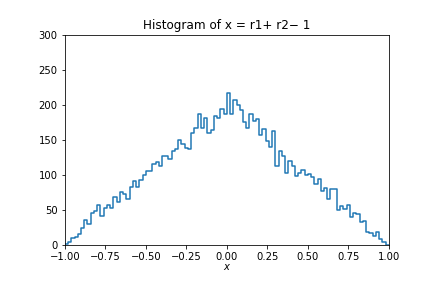
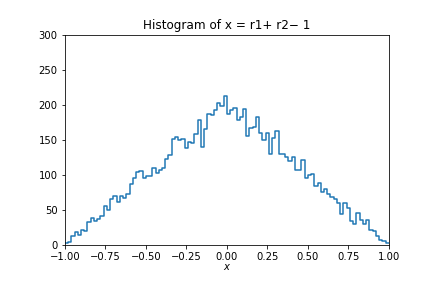
second submiting

Changed region(s): [[0.3009, 0.3125, 0.9028, 0.8438], [0.1806, 0.6562, 0.3009, 0.8125], [0.1505, 0.8125, 0.1806, 0.8438]]

diff --git a/Ex1(a).py b/Ex1(a).py
@@ -15,15 +15,16 @@ xMax = 1.
 r = []
 for i in range(12):
     r.append(np.random.uniform(xMin, xMax, numVal))
+
 xData_1 = r[0] + r[1] - 1
 xData_2 = r[0] + r[1]+ r[2] + r[3] - 2
 xData_3 = -6
 for i in range(12):
     xData_3 = xData_3 + r[i]
 
-xHist1, bin_edges1 = np.histogram(xData_1, bins=nBins, range=(xMin, xMax))
-xHist2, bin_edges2 = np.histogram(xData_2, bins=nBins, range=(xMin, xMax))
-xHist3, bin_edges3 = np.histogram(xData_3, bins=nBins, range=(xMin, xMax))
+xHist1, bin_edges1 = np.histogram(xData_1, bins=nBins, range=(xMin-1, xMax))
+xHist2, bin_edges2 = np.histogram(xData_2, bins=nBins, range=(xMin-2, xMax+1))
+xHist3, bin_edges3 = np.histogram(xData_3, bins=nBins, range=(xMin-6, xMax+5))
 # make plot and save in file
 
 # for xData_1 the plot as follow
@@ -34,10 +35,11 @@ fig1, ax1= plt.subplots(1,1)
 plt.gcf().subplots_adjust(bottom=0.15)
 plt.gcf().subplots_adjust(left=0.15)
 plt.title('Histogram of x = r1+ r2− 1')
-ax1.set_xlim((xMin, xMax))
-ax1.set_ylim((0., 150))
+ax1.set_xlim((xMin-1, xMax))
+ax1.set_ylim((0., 300))
 plt.xlabel(r'$x$', labelpad=0)
 plt.plot(xPlot1, yPlot1)
+fig1 = plt.gcf()
 plt.show()
 fig1.savefig("uniformHist1.png")
 
@@ -49,10 +51,11 @@ fig2, ax2= plt.subplots(1,1)
 plt.gcf().subplots_adjust(bottom=0.15)
 plt.gcf().subplots_adjust(left=0.15)
 plt.title('Histogram of x =  r1+ r2+ r3+ r4− 2')
-ax2.set_xlim((xMin, xMax))
-ax2.set_ylim((0., 150))
+ax2.set_xlim((xMin-2, xMax+1))
+ax2.set_ylim((0., 350))
 plt.xlabel(r'$x$', labelpad=0)
 plt.plot(xPlot2, yPlot2)
+fig2 = plt.gcf()
 plt.show()
 fig2.savefig("uniformHist2.png")
 
@@ -64,9 +67,10 @@ fig3, ax3= plt.subplots(1,1)
 plt.gcf().subplots_adjust(bottom=0.15)
 plt.gcf().subplots_adjust(left=0.15)
 plt.title('Histogram of x =  r1+ r2+ r3+ ...+ r12 −6')
-ax3.set_xlim((xMin, xMax))
-ax3.set_ylim((0., 150))
+ax3.set_xlim((xMin-6, xMax+5))
+ax3.set_ylim((0., 550))
 plt.xlabel(r'$x$', labelpad=0)
 plt.plot(xPlot3, yPlot3)
+fig3 = plt.gcf()
 plt.show()
 fig3.savefig("uniformHist3.png")
